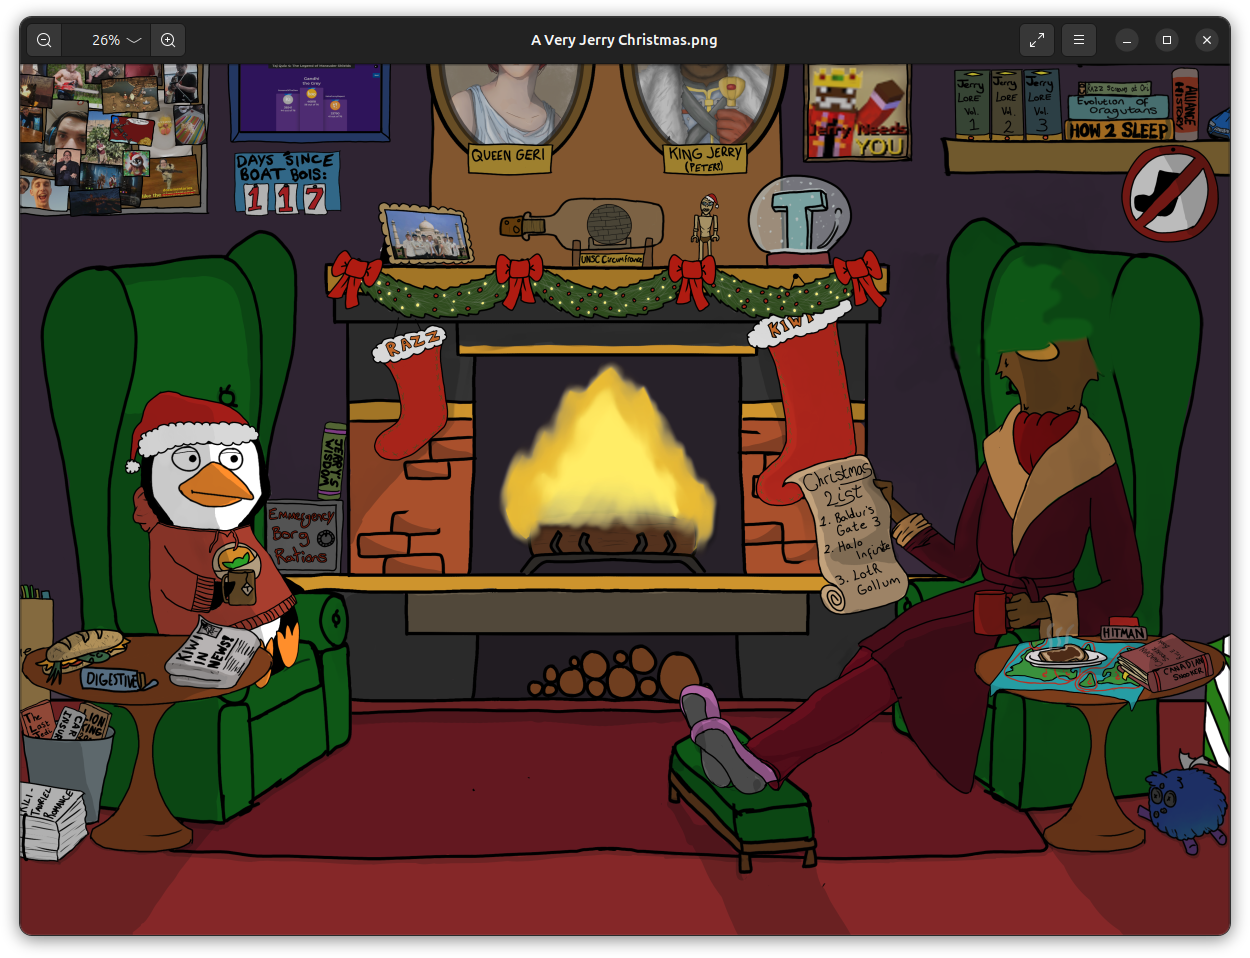
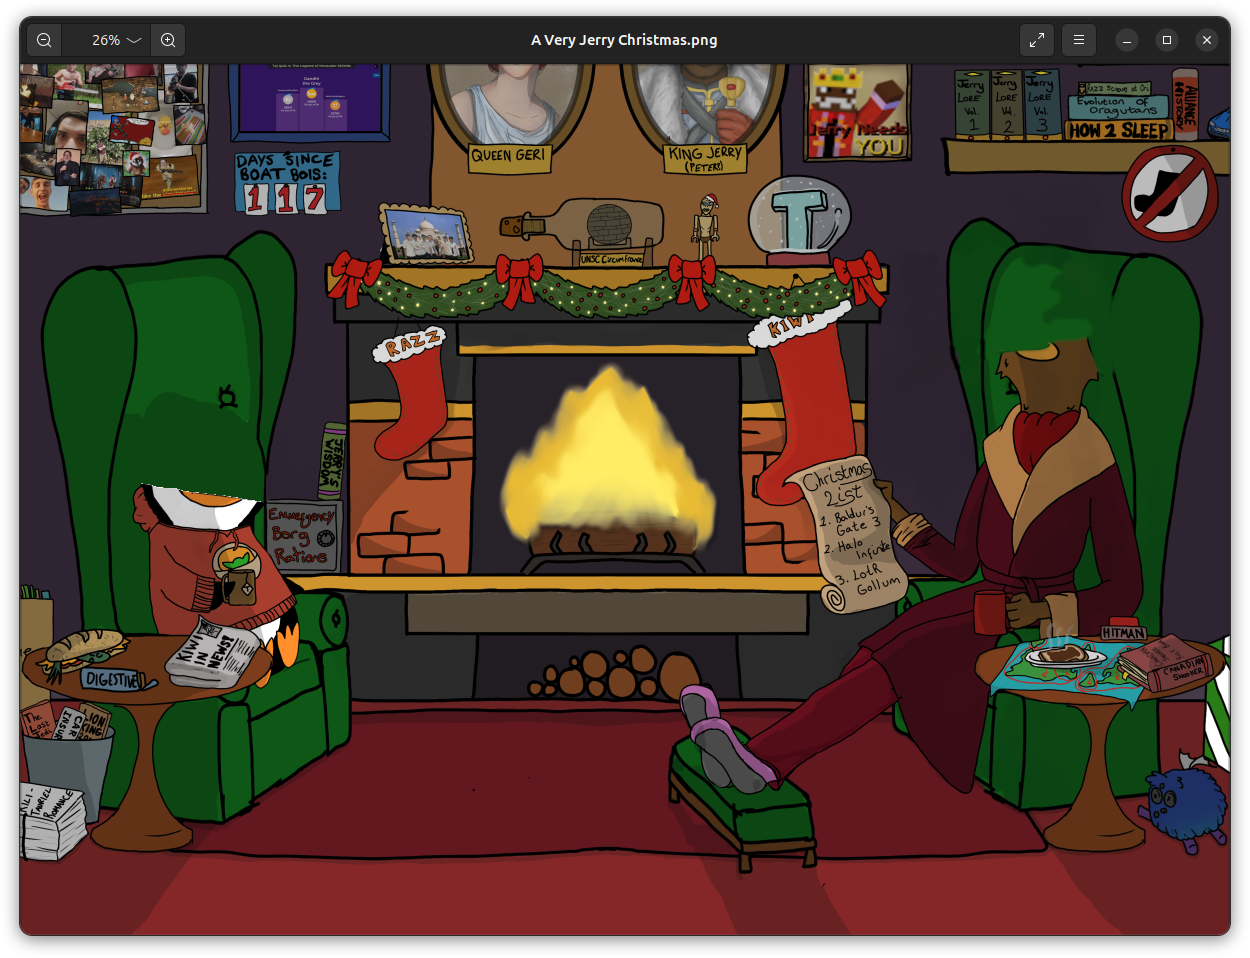
Implement rendering split audio over multiple heads

Changed region(s): [[0.0936, 0.3935, 0.2184, 0.5449]]

diff --git a/src/stage/director.ts b/src/stage/director.ts
@@ -7,7 +7,7 @@ const STAGEHAND_DIR = '/media/razzula/media2/Programming/Web/';
 export function scriptFromTemplate(
     template: Template,
     frame: number, frameTimeSec: number,
-    audioVolume?: number,
+    audioVolume?: Record<string, number>,
     frameW?: number, frameH?: number
 ): Script {
 
@@ -43,6 +43,8 @@ export function scriptFromTemplate(
     });
 
     for (const head of template.heads) {
+        const id = head.id;
+
         const normX = (head.origin.x / canvasW); // XXX
         const normY = (head.origin.y / canvasH); // XXX
         const px = origin.x + Math.round(normX * canvasW);
@@ -51,7 +53,7 @@ export function scriptFromTemplate(
         const h = Math.round((head.height / canvasH) * canvasH); // XXX
 
         // bob head according to audio volume
-        const bob = Math.round((audioVolume ?? 0) * -40);
+        const bob = Math.round((audioVolume?.[id] ?? 0) * -40);
 
         props.push({
             prop: head.id,
@@ -78,7 +80,7 @@ export interface CustomVideoAsset {
     audioSampleRate: number;
 }
 
-export async function sceneFromTemplate(template: Template, customAssets: CustomVideoAsset[]): Promise<Scene> {
+export async function sceneFromTemplate(template: Template, customAssets: CustomVideoAsset[], audioSplit: Record<string, number[][]>): Promise<Scene> {
 
     const props: Record<string, Prop> = {};
     const frames: Script[] = [];
@@ -110,7 +112,15 @@ export async function sceneFromTemplate(template: Template, customAssets: Custom
     console.log('length of floatSamples:', floatSamples.length);
     const volumesPerFrame = computeRMSPerFrame(floatSamples, customAssets[0].audioSampleRate, fps);
     console.log('length of volumes:', volumesPerFrame.length);
-    console.log(volumesPerFrame[0], volumesPerFrame[1], volumesPerFrame[2], volumesPerFrame[3], volumesPerFrame[4]);
+
+    // associate volumes to heads
+    const filteredVolumesPerFrame = [];
+    for (let i = 0; i < volumesPerFrame.length; i++) {
+        filteredVolumesPerFrame.push({
+            'kiwi': isWithinBounds(audioSplit['kiwi'], i) ? volumesPerFrame[i] : 0,
+            'pengwyn': isWithinBounds(audioSplit['pengwyn'], i) ? volumesPerFrame[i] : 0,
+        });
+    }
 
     // calculate frames
     const totalFrames = durationSec * fps;
@@ -121,7 +131,7 @@ export async function sceneFromTemplate(template: Template, customAssets: Custom
         const script = scriptFromTemplate(
             template,
             i + 1, frameTimeSec,
-            volumesPerFrame[i] ?? 0,
+            filteredVolumesPerFrame[i] ?? undefined,
             frameW, frameH,
         );
         frames.push(script);
@@ -154,4 +164,15 @@ function computeRMSPerFrame(samples: Float32Array, sampleRate: number, fps: numb
         volumes[f] = Math.sqrt(sumSq / (end - start || 1));
     }
     return volumes;
+}
+
+function isWithinBounds(audioSplit: number[][], frame: number): boolean {
+    for (const range of audioSplit) {
+        const startFrame = range[0];
+        const endFrame = range[1];
+        if (frame >= startFrame && frame < endFrame) {
+            return true;
+        }
+    }
+    return false;
 }

diff --git a/src/App.tsx b/src/App.tsx
@@ -4,8 +4,9 @@ import { invoke } from '@tauri-apps/api/core';
 import { scriptFromTemplate, sceneFromTemplate, CustomVideoAsset } from './stage/director';
 
 import { testplate } from './data/testplate';
-import './App.css';
 import { Scene } from './stage/stage';
+
+import './App.css';
 
 const generatedSrc2 = new URL('/bin/out2.mp4', import.meta.url).href;
 
@@ -20,7 +21,14 @@ const videoData: CustomVideoAsset = {
 
 function App() {
 
+    const [template, setTemplate] = useState(testplate);
+    const [audioSplit, setAudioSplit] = useState<Record<string, number[][]>>({
+        'kiwi': [[0, 20*30], [23*30, 27*30]],
+        'pengwyn': [[20.5*30, 24*30], [27*30, 30*30]],
+    });
+
     const [frames, setFrames] = useState<string[]>([]);
+    const [rendered, setRendered] = useState<boolean>(false);
 
     useEffect(() => {
         testFrameGeneration();
@@ -28,7 +36,7 @@ function App() {
 
     async function testFrameGeneration() {
         const renderedFrames: string[] = [];
-        const scene = await sceneFromTemplate(testplate, [videoData]);
+        const scene = await sceneFromTemplate(template, [videoData], audioSplit);
         for (let i = 0; i < 1; i++) {
             const frame = scene.frames[i*30]; // every second
             const frameAsScene: Scene = {
@@ -42,8 +50,9 @@ function App() {
     }
 
     async function renderVideo(payload: Scene) {
-        const temp = await invoke('renderVideo', { payload });
-        alert(temp);
+        setRendered(false);
+        await invoke('renderVideo', { payload });
+        setRendered(true);
     }
 
     return (
@@ -56,7 +65,7 @@ function App() {
                 />
                 <h2>Template</h2>
                 <img className='pane'
-                    src={new URL(testplate.background.image, import.meta.url).href}
+                    src={new URL(template.background.image, import.meta.url).href}
                 />
             </div>
 
@@ -71,14 +80,16 @@ function App() {
                 <h2>Render</h2>
                 <div>
                     <button
-                        onClick={() => sceneFromTemplate(testplate, [videoData]).then(scene => renderVideo(scene)) }
+                        onClick={() => sceneFromTemplate(template, [videoData], audioSplit).then(scene => renderVideo(scene)) }
                     >
                         Render Video!
                     </button>
                 </div>
-                <video className='pane'
-                    src={generatedSrc2} controls={true}
-                />
+                { rendered &&
+                    <video className='pane'
+                        src={generatedSrc2} controls={true}
+                    />
+                }
             </div>
 
         </div>

diff --git a/src/data/testplate.ts b/src/data/testplate.ts
@@ -33,7 +33,29 @@ export const testplate: Template = {
                     }
                 ],
             },
-        }
+        },
+        {
+            id: 'pengwyn',
+            image: '/assets/penpengwyn.png',
+            width: 144,
+            height: 113,
+            origin: {
+                x: 125,
+                y: 391 ,
+            },
+            paths: {
+                'offset-y': [
+                    {
+                        keyframe: 0,
+                        value: 0,
+                    },
+                    {
+                        keyframe: 1,
+                        value: 100,
+                    }
+                ],
+            },
+        },
     ],
     video: {
         id: 'sample',